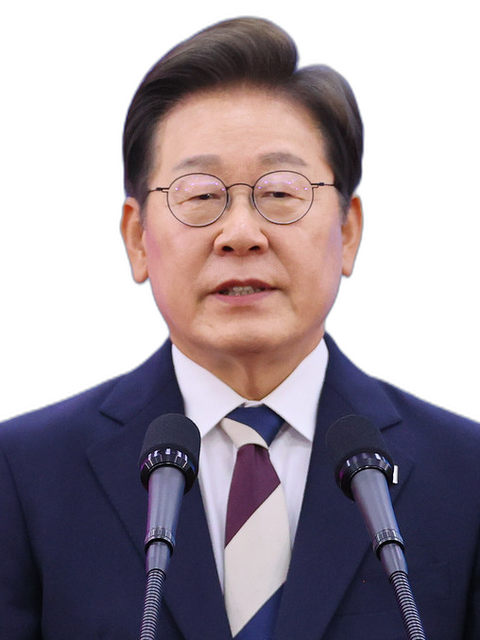
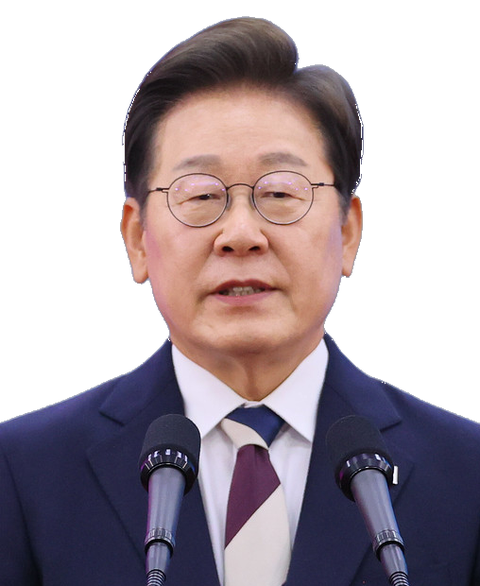
4차 시안 — 월평균을 주인공 자리로(총액은 막대 안), 최신월 한 달 증가 2줄 꼬리표, 상단 캡션=기준(부제 삭제), 사진 가슴선 통일·노무현 누끼 잔재 제거, 재임 개월은 실제 취임·퇴임일에서 계산

diff --git a/templates/gov-bars/template.html b/templates/gov-bars/template.html
@@ -42,15 +42,19 @@
         color: var(--wirit-gray); letter-spacing: -0.03em;
       }
 
-      .gb-chart { flex: 1 1 auto; display: flex; align-items: flex-end; margin: 24px 0 0; }
+      .gb-chart { flex: 1 1 auto; display: flex; align-items: flex-end; margin: 34px 0 0; }
       .gb-svg { display: block; width: 100%; height: auto; }
       .gb-base { stroke: var(--wirit-ink); stroke-width: 4; }
       .gb-grid { stroke: var(--wirit-ink-06); stroke-width: 2; }
       /* 총 증가액 — 이 카드의 주인공 숫자 */
-      .gb-val { font-family: var(--font-num); font-size: 45px; font-weight: 900; letter-spacing: -0.035em; }
+      /* 막대 위 월평균 — "월 11.8조" 8글자가 칸 폭(약 156px)을 넘지 않는 크기.
+         45px 로 두었더니 이웃 칸 글자와 붙었다(2026-08-12 실측). */
+      .gb-val { font-family: var(--font-num); font-size: 37px; font-weight: 900; letter-spacing: -0.055em; }
       /* 월평균 뱃지 안 글자 */
       .gb-rate { font-family: var(--font-num); font-size: 23px; font-weight: 800; letter-spacing: -0.02em; }
       .gb-tag { font-family: var(--font-sans); font-size: 22px; font-weight: 800; letter-spacing: -0.03em; }
+      /* 재임 중인 칸 위 빈 공간의 2줄 꼬리표 — 최신월 한 달 증가 */
+      .gb-callout { font-family: var(--font-num); font-size: 32px; font-weight: 900; letter-spacing: -0.03em; }
 
       /* ── 인물 축 ── 사진은 누끼(-cut.png)를 바닥 정렬로 세운다 */
       .gb-axis { flex: 0 0 auto; display: grid; margin: 10px 0 0; }
@@ -87,7 +91,6 @@
     <div class="wirit-card gb">
       <div class="wirit-topcap">{{#if badge}}<span class="gb-badge">{{badge}}</span>{{/if}}</div>
       <div class="gb-head"><h1 class="wirit-title">{{{title}}}</h1></div>
-      {{#if subtitle}}<div class="gb-sub">{{subtitle}}</div>{{/if}}
 
       <div class="gb-chart">
         <svg class="gb-svg" viewBox="{{chart.vb}}" preserveAspectRatio="xMidYMid meet" aria-hidden="true">
@@ -96,6 +99,7 @@
           {{#each chart.rates}}<g><rect x="{{x}}" y="{{y}}" width="{{w}}" height="{{h}}" rx="{{r}}" fill="{{fill}}" /><text class="gb-rate" x="{{tx}}" y="{{ty}}" fill="{{tfill}}" text-anchor="middle">{{text}}</text></g>{{/each}}
           {{#each chart.values}}<text class="gb-val" x="{{x}}" y="{{y}}" fill="{{fill}}" text-anchor="middle">{{text}}</text>{{/each}}
           {{#each chart.tags}}<text class="gb-tag" x="{{x}}" y="{{y}}" fill="{{fill}}" text-anchor="middle">{{text}}</text>{{/each}}
+          {{#each chart.callouts}}<text class="gb-callout" x="{{x}}" y="{{y}}" fill="{{fill}}" text-anchor="{{anchor}}">{{#each lines}}<tspan x="{{../x}}" dy="{{#if @first}}0{{else}}38{{/if}}">{{this}}</tspan>{{/each}}</text>{{/each}}
           {{#if chart.baseline}}<line class="gb-base" x1="{{chart.baseline.x1}}" y1="{{chart.baseline.y}}" x2="{{chart.baseline.x2}}" y2="{{chart.baseline.y}}" />{{/if}}
         </svg>
       </div>

diff --git a/scripts/normalize-portraits.py b/scripts/normalize-portraits.py
@@ -27,12 +27,31 @@ from PIL import Image
 ROOT = os.path.dirname(os.path.dirname(os.path.abspath(__file__)))
 PHOTOS = os.path.join(ROOT, "templates/_shared/photos")
 
-# 출력 틀 — 3:4. 얼굴이 프레임 높이의 FACE_H 를, 얼굴 중심이 위에서 FACE_CY 지점에 오게 한다.
-OUT_W, OUT_H = 480, 640
-FACE_H = 0.40      # 얼굴(검출 상자) 높이 / 프레임 높이
-FACE_CY = 0.34     # 얼굴 중심의 세로 위치(프레임 대비)
+# 출력 틀 — 얼굴 크기와 위치를 **px 로 못박는다**(비율로 두면 틀 높이를 바꿀 때 얼굴까지 따라 움직인다).
+# 아래끝은 가슴선. 원본 중 화각이 가장 짧은 사진(윤석열 공식 초상)의 아래끝에 맞췄다 —
+# 그보다 길게 잡으면 그 한 장만 빈 채로 끝나 6인의 사진 크기가 안 맞는다(오너 지적 2026-08-12).
+OUT_W, OUT_H = 480, 586
+FACE_PX = 256      # 얼굴(검출 상자) 높이, px
+FACE_CY_PX = 218   # 얼굴 중심의 세로 위치, 프레임 위에서 px
 
 CASCADE = cv2.data.haarcascades + "haarcascade_frontalface_default.xml"
+
+
+def clean_halo(rgb, alpha, a_thr=250, dark=70):
+    """**반투명한 검은 띠**를 지운다 — 누끼가 덜 지운 원본 배경이다.
+
+    노무현 초상은 머리 오른쪽 위에 회색 뿔이 붙어 나왔다(오너 지적 2026-08-12).
+    정체는 원본의 검은 배경 중 **알파가 덜 깎인 부분**이다(알파 평균 98, 색 RGB 14,15,14).
+    사람 본체는 알파가 254~255 로 꽉 차 있으므로, "**반투명하면서 거의 검은**" 픽셀만 지우면
+    머리카락은 건드리지 않고 배경 잔재만 사라진다. 지운 뒤 다시 largest_component 를 태우면
+    떨어져 나간 조각도 함께 정리된다.
+    """
+    kill = (alpha < a_thr) & (rgb.max(axis=2) < dark) & (alpha > 0)
+    if not kill.any():
+        return alpha, 0
+    out = alpha.copy()
+    out[kill] = 0
+    return out, int(kill.sum())
 
 
 def dekey_white(rgb, alpha, thr=238):
@@ -107,6 +126,7 @@ def process(slug):
     arr = np.array(im)
     rgb, alpha = arr[:, :, :3], arr[:, :, 3]
 
+    alpha, haloed = clean_halo(rgb, alpha)
     alpha, dekeyed = dekey_white(rgb, alpha)
     alpha, removed = largest_component(alpha)
 
@@ -118,11 +138,11 @@ def process(slug):
     fcx, fcy = fx + fw / 2.0, fy + fh / 2.0
 
     # 얼굴 높이가 OUT_H*FACE_H 가 되도록 하는 배율
-    scale = (OUT_H * FACE_H) / fh
+    scale = FACE_PX / fh
     # 원본에서 잘라낼 창의 크기
     cw, ch = OUT_W / scale, OUT_H / scale
     x0 = fcx - cw / 2.0
-    y0 = fcy - ch * FACE_CY
+    y0 = fcy - (FACE_CY_PX / scale)
 
     # 창이 원본 밖으로 나가면 투명으로 채운다(억지로 밀어 넣으면 얼굴 위치가 어긋난다)
     canvas = np.zeros((int(round(ch)), int(round(cw)), 4), dtype=np.uint8)
@@ -140,6 +160,7 @@ def process(slug):
     dst = os.path.join(PHOTOS, f"{slug}-face.png")
     out.save(dst)
     return (f"{slug}: ✅ 얼굴 {fw}x{fh} → 배율 {scale:.3f}"
+            + (f" · 검은잔재 {haloed}px 제거" if haloed else "")
             + (f" · 흰배경 {dekeyed}px 제거" if dekeyed else "")
             + (f" · 부스러기 {removed}px 제거" if removed else "")
             + f" → {os.path.basename(dst)}")
